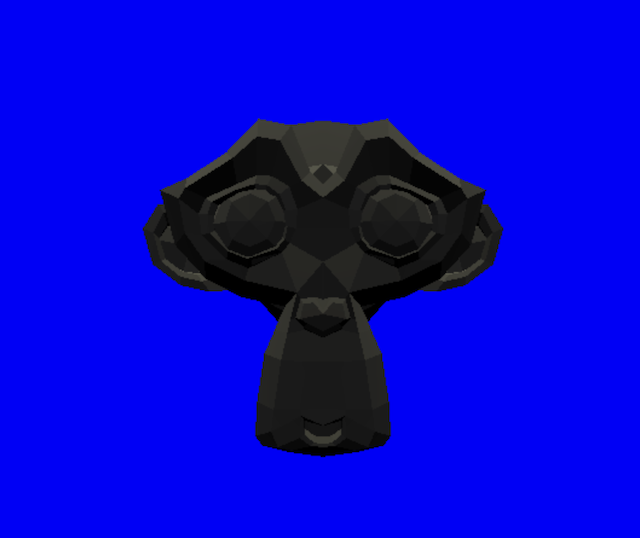
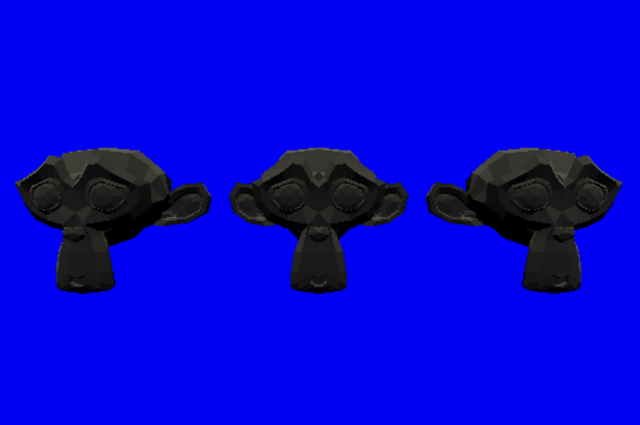
複数表示に変更

Changed region(s): [[0.0, 0.2141, 0.9688, 0.8565], [0.4375, 0.4282, 0.4688, 0.4588]]

diff --git a/index.html b/index.html
@@ -39,14 +39,14 @@
 
       camera.position.z = 3;
 
-      let d = 0;
+      let d = 0; //0.005;
 
       function animate() {
         requestAnimationFrame(animate);
 
-        obj.forEach((cube) => {
-          cube.position.x += d;
-          if (cube.position.x < -3 || cube.position.x > 3) d = -d;
+        obj.forEach((o) => {
+          o.rotation.x += d;
+          o.rotation.y += d;
         });
 
         renderer.render(scene, camera);
@@ -58,9 +58,20 @@
 
       const cube = loader.load(
         "glb/monky.glb",
-        function (gltf) {
-          scene.add(gltf.scene);
-          obj.push(gltf.scene);
+        function (object) {
+          object.scene.traverse((child) => {
+            if (child instanceof THREE.Mesh && child.name === "Suzanne") {
+              for (i = -1; i < 2; i++) {
+                const mesh = child.clone();
+                mesh.position.x = i * 1.5;
+                mesh.scale.x = 0.5;
+                mesh.scale.y = 0.5;
+                mesh.scale.z = 0.5;
+                scene.add(mesh);
+                obj.push(mesh);
+              }
+            }
+          });
         },
         undefined,
         function (error) {
